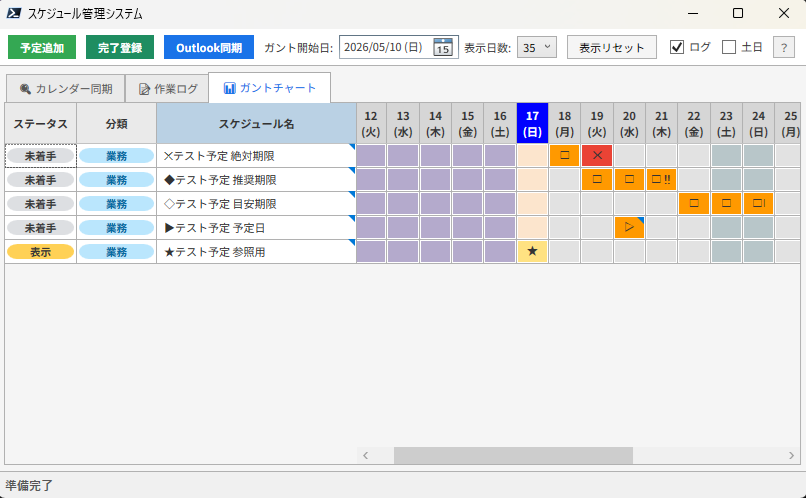
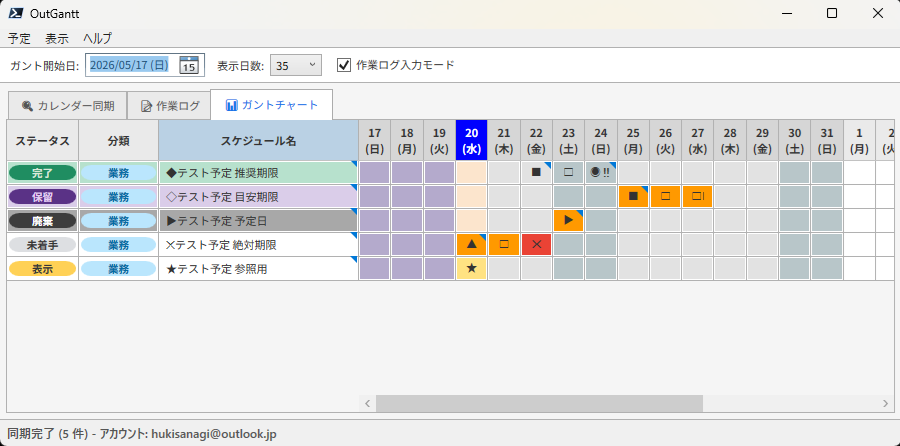
Add OutGantt branding and screenshot test data

diff --git a/README.md b/README.md
@@ -1,4 +1,8 @@
-# PowerShell Outlook Ganttchart
+# OutGantt
+
+<p align="center">
+  <img src="docs/header.png" alt="OutGantt">
+</p>
 
 Outlook の予定を取得し、作業ログと合わせてガントチャート表示する PowerShell/WPF アプリ。
 会社PCに単一ファイルで持ち出せることを重視しつつ、開発時は `src/` 配下の分割ファイルで編集できる構成にしている。